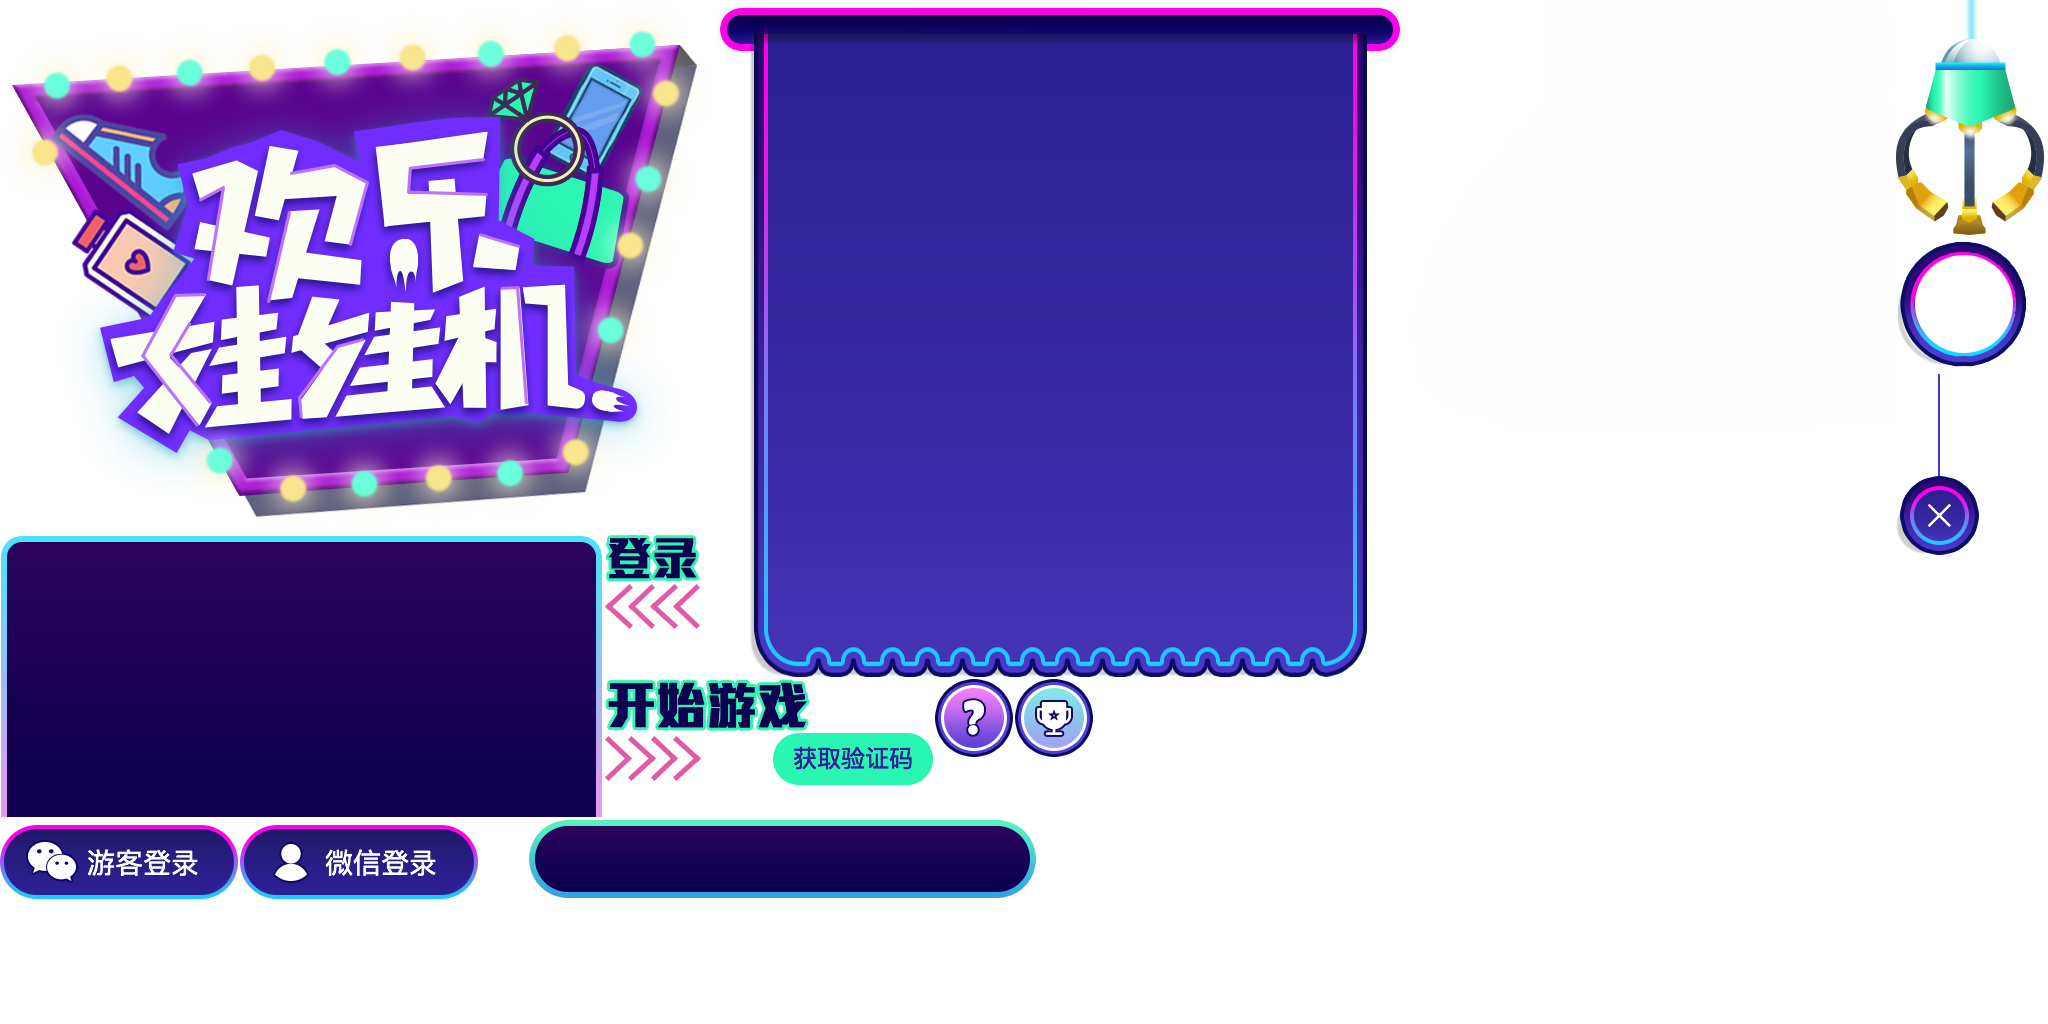
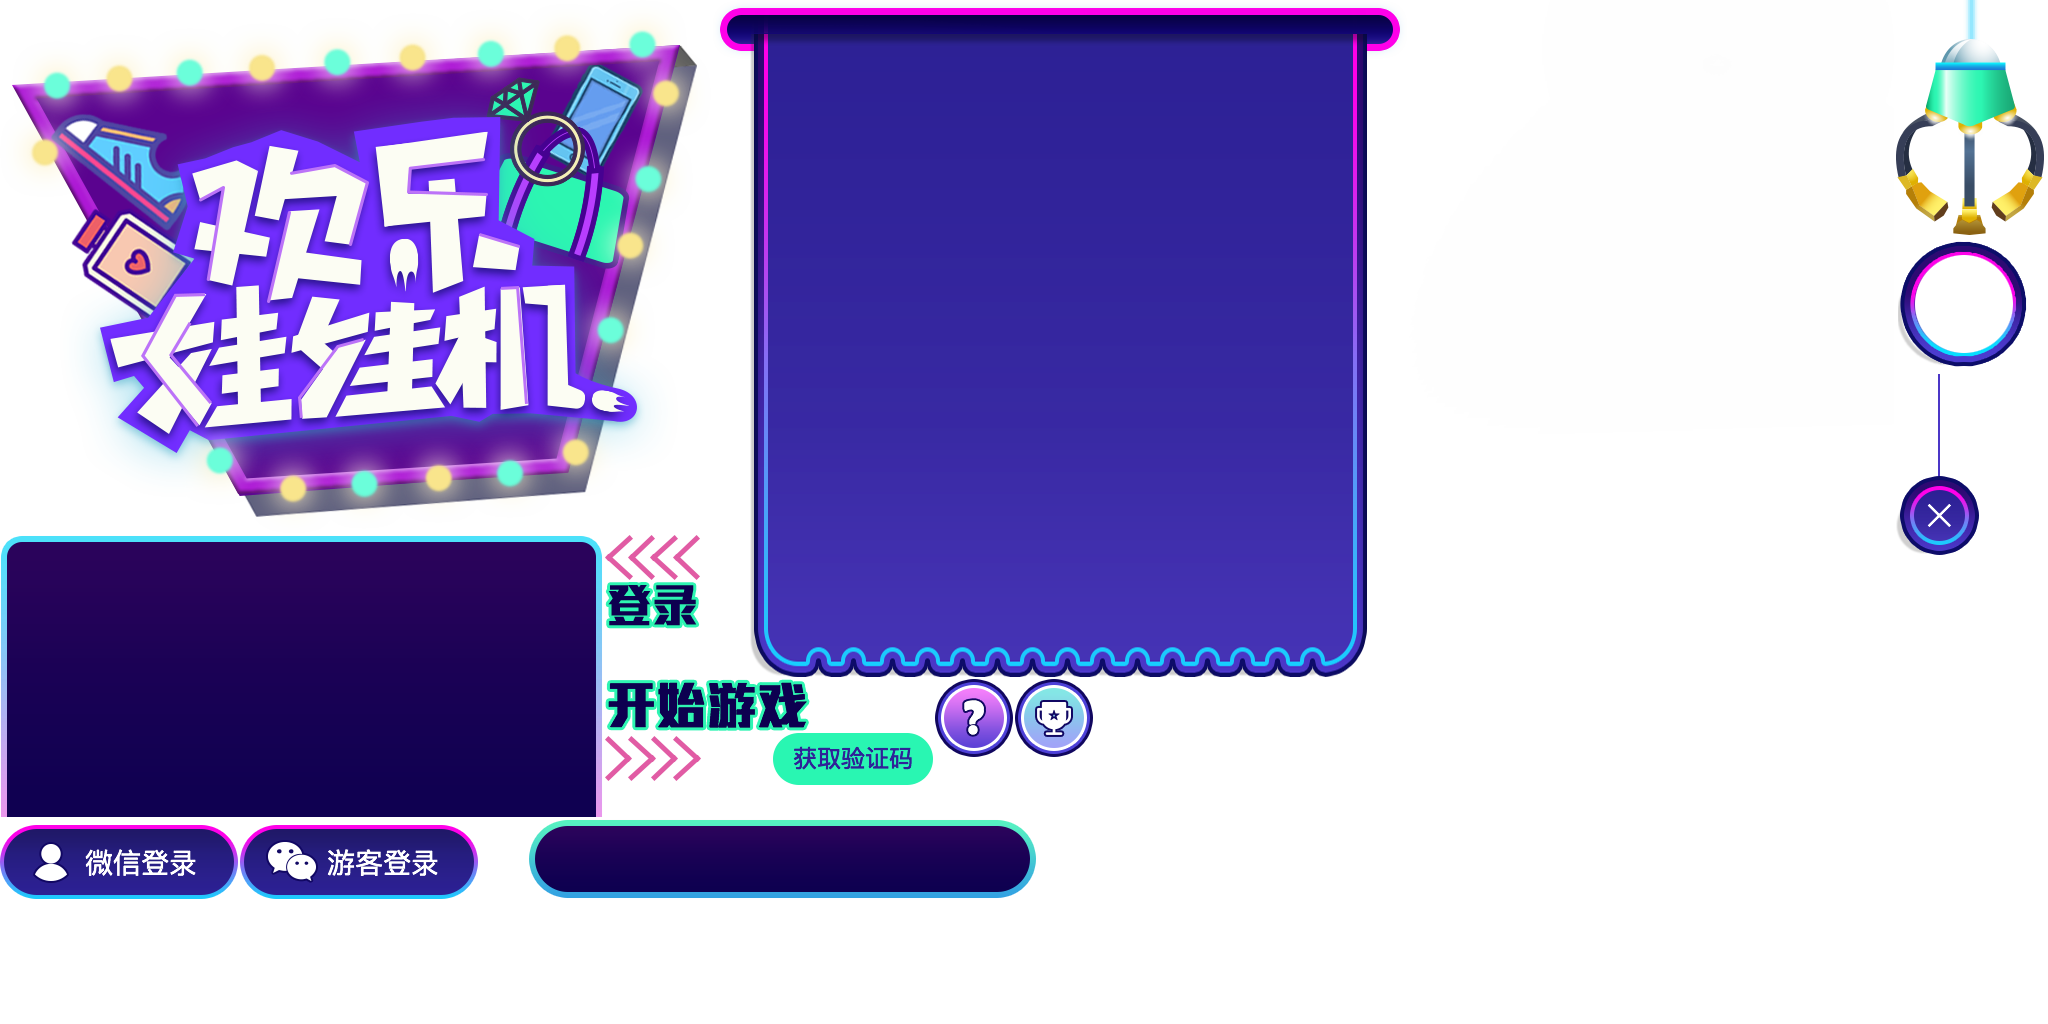
polish ui

Changed region(s): [[0.2812, 0.5, 0.3438, 0.625], [0.125, 0.8125, 0.2188, 0.875], [0.0, 0.8125, 0.0938, 0.875]]

diff --git a/Assets/Scripts/UI/Enter/UIEnterMain.cs b/Assets/Scripts/UI/Enter/UIEnterMain.cs
@@ -18,7 +18,7 @@ public class UIEnterMain : UIMain
 		//_mainView = this.GetComponent<UIPanel>().ui;
 
 		_loginWin = new UILoginWin();
-		_mainView.GetChild("n0").onClick.Add(() => { 
+		_mainView.GetChild("n21").onClick.Add(() => { 
 			this._clickFunc(ClickType.StartGame);
 			_loginWin.Show(); 
 

diff --git a/Assets/Scripts/UI/Enter/UILoginWin.cs b/Assets/Scripts/UI/Enter/UILoginWin.cs
@@ -11,7 +11,7 @@ public class UILoginWin : Window
 		get{ return this.contentPane.GetChild ("n7"); }
 	}
 	public GObject Login{
-		get{ return this.contentPane.GetChild ("n5"); }
+		get{ return this.contentPane.GetChild ("n19"); }
 	}
 
 	public UILoginWin ()
